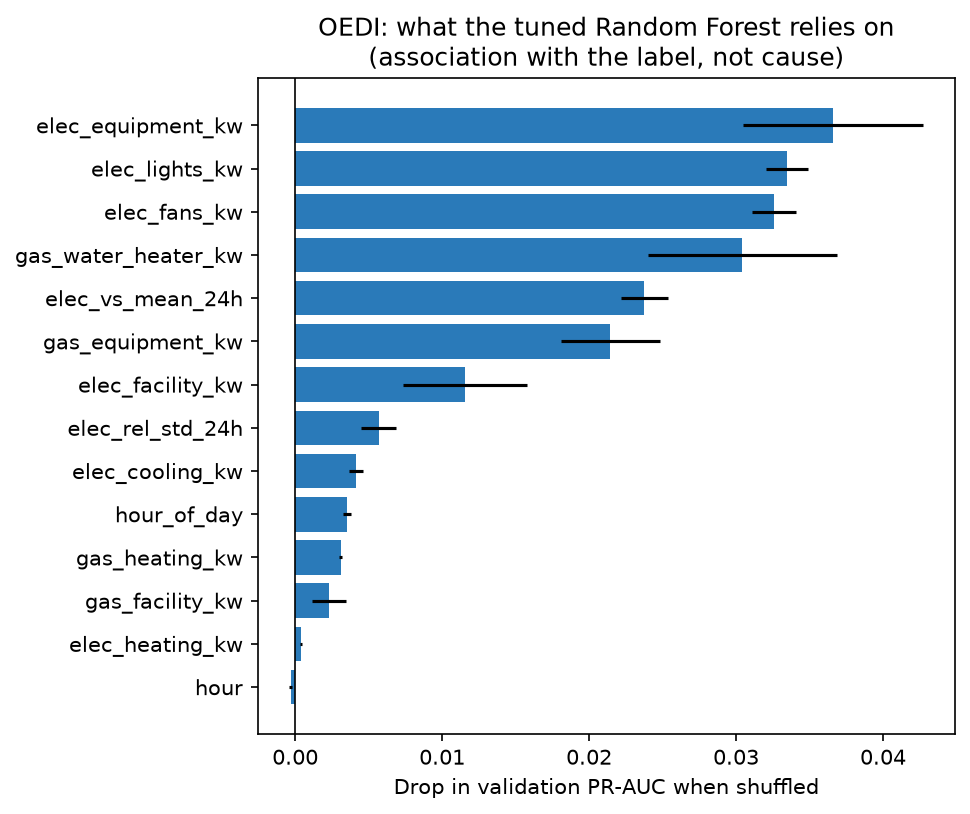
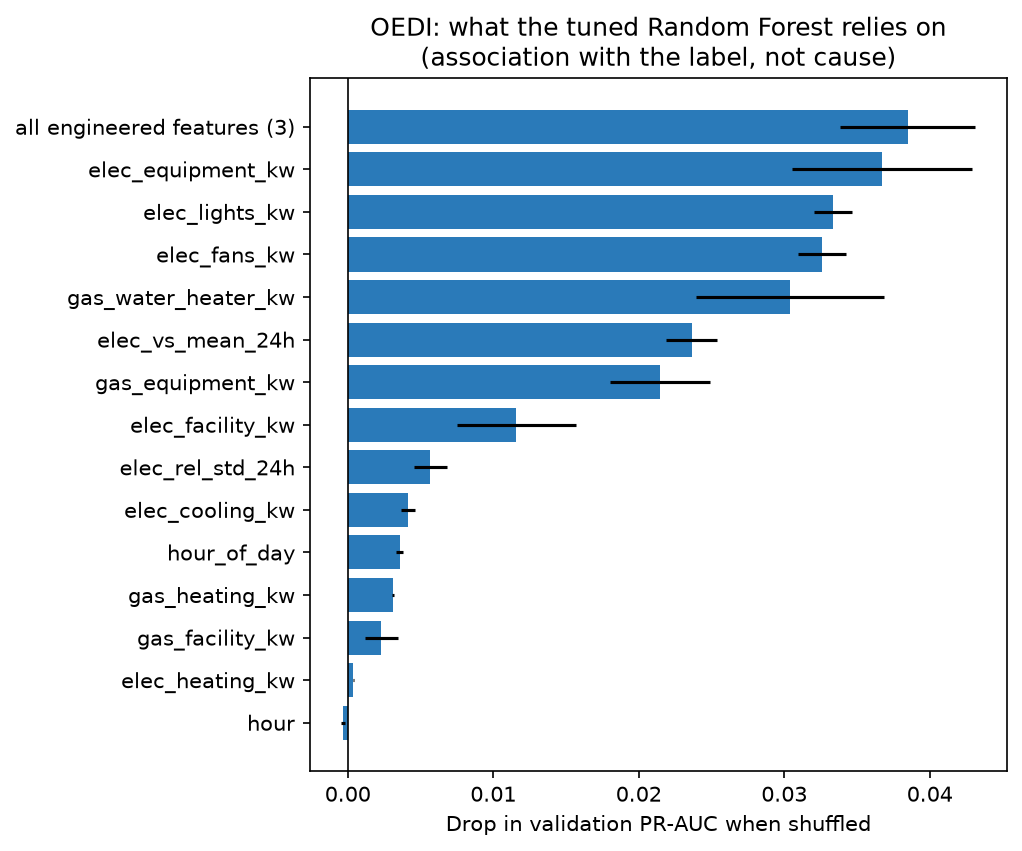
PR 8 review: grouped importance of engineered features, row check, OEDI meter limitation

Changed region(s): [[0.0, 0.0, 0.9897, 0.86], [0.2784, 0.8907, 0.9897, 0.9828]]

diff --git a/src/error_analysis.py b/src/error_analysis.py
@@ -17,10 +17,16 @@ Feature importance (permutation importance): on each validation fold, the
 values of one feature (or one group of features) are shuffled between rows
 and we measure how much PR-AUC drops. A big drop means the model leans on
 that feature. The 1,035 SGCC daily readings are shuffled together as one
-group, because one day on its own says little. Important: this shows what
-the MODEL uses, not what causes theft. When two features carry the same
-information (e.g. mean and maximum use), they share the importance, so
-each may look less important than it is.
+group, because one day on its own says little. When two features carry the
+same information (e.g. mean and maximum use), they share the importance, so
+each may look less important than it is. That is why all engineered
+features (from src/features.py) are also shuffled together as one group,
+which shows what they add as a set. Important: this shows what the MODEL
+uses, not what causes theft.
+
+Limitation (OEDI): the most important OEDI columns are end-use readings
+(equipment, lights, fans, water heater). A real utility usually sees only
+the main meter, so in practice a model would have less to work with.
 
 Run from the project folder (after python -m src.tuning):
     python -m src.error_analysis
@@ -65,6 +71,8 @@ TOP_SHARES = [0.01, 0.05, 0.10, 0.20]
 # SGCC features compared between outcomes (from src/features.py).
 SGCC_PROFILE_FEATURES = ["mean_use", "relative_std", "zero_days", "sudden_drops",
                          "missing_share", "max_use"]
+# OEDI columns made by features.oedi_features (the rest are raw readings).
+OEDI_ENGINEERED = ["hour_of_day", "elec_vs_mean_24h", "elec_rel_std_24h"]
 
 
 # ----------------------------------------------------------- predictions
@@ -81,14 +89,21 @@ def feature_groups(dataset, columns):
     """Columns shuffled together in permutation importance.
 
     SGCC: all daily readings form one group; every other column is its own
-    group. OEDI: every column is its own group.
+    group. OEDI: every column is its own group. On both datasets, all
+    engineered features are also shuffled together as one extra group.
     """
     if dataset == "sgcc":
         days = [c for c in columns if c[:4].isdigit()]   # named "YYYY-MM-DD"
+        # Every SGCC column that is not a day comes from features.sgcc_features.
+        engineered = [c for c in columns if c not in days]
         groups = {f"daily readings ({len(days):,} days)": days}
-        groups.update({c: [c] for c in columns if c not in days})
-        return groups
-    return {c: [c] for c in columns}
+        groups.update({c: [c] for c in engineered})
+    else:
+        engineered = [c for c in columns if c in OEDI_ENGINEERED]
+        groups = {c: [c] for c in columns}
+    if engineered:
+        groups[f"all engineered features ({len(engineered)})"] = engineered
+    return groups
 
 
 def permutation_drop(model, X_val, y_val, columns, rng, n_repeats=N_REPEATS):
@@ -324,6 +339,8 @@ def analyse(dataset, seed, model_name="Random Forest", use_test=False, data_dir=
         # Text columns left out of X; same file, so the rows line up.
         info = pd.read_csv(Path(data_dir) / "oedi" / f"{split}.csv",
                            usecols=["building_type", "theft_type", "theft"])
+        assert len(info) == len(outcome) and (info["theft"].to_numpy() == y.to_numpy()).all(), \
+            "OEDI file rows no longer line up with the predictions"
         by_type, by_building = oedi_breakdowns(info, outcome)
         by_type.to_csv(out / f"errors_oedi_{suffix}_by_theft_type.csv", index=False)
         by_building.to_csv(out / f"errors_oedi_{suffix}_by_building.csv", index=False)

diff --git a/tests/test_error_analysis.py b/tests/test_error_analysis.py
@@ -38,8 +38,11 @@ def test_sgcc_daily_readings_are_one_importance_group():
     groups = ea.feature_groups("sgcc", columns)
     assert groups["daily readings (2 days)"] == ["2014-01-01", "2014-01-02"]
     assert groups["mean_use"] == ["mean_use"]
-    assert ea.feature_groups("oedi", ["hour", "elec_facility_kw"]) == {
-        "hour": ["hour"], "elec_facility_kw": ["elec_facility_kw"]}
+    # All engineered features are also shuffled together.
+    assert groups["all engineered features (2)"] == ["mean_use", "missing_share"]
+    assert ea.feature_groups("oedi", ["hour", "elec_facility_kw", "hour_of_day"]) == {
+        "hour": ["hour"], "elec_facility_kw": ["elec_facility_kw"],
+        "hour_of_day": ["hour_of_day"], "all engineered features (1)": ["hour_of_day"]}
 
 
 def test_shuffling_a_useless_feature_changes_nothing():
